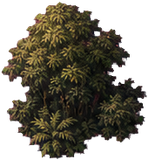
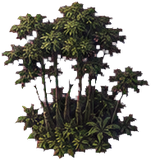
Painted 4x sprite set: units, cities and resources to match the painted map
Generates painted units, special resources, town, walls, fortress and
huts in the concept's style, cuts them out (painted_assets.py) and builds
a complete 4x sprite set from them (painted_set.py, assets/hd4): units
get a small flag in their player's colors, the city a badge. On the
painted map the town stands on the painted ground and its size is
written in the top left corner so the town shows.

Also: greener jungle trees, softer surf, and HD_SET=hd4 for the
stand-in installer.

Claude-Session: https://claude.ai/code/session_01VGBb6mKQ3kspS5r6m29MiP

diff --git a/tools/hdart/painted_set.py b/tools/hdart/painted_set.py
@@ -1,0 +1,132 @@
+"""Writes the 4x sprite set that goes with the painted map: units, resources, cities, walls, fortress and huts from the
+painted objects (assets/painted/objects, see painted_assets.py), and the remaining map sprites (roads, railroads,
+irrigation, mines, pollution, fog, explosions, shield bonus) from the drawn 2x set at twice the size.
+
+Terrain tiles are left out: the painted map replaces them. The output has scale.txt with 4.
+
+Usage: python3 painted_set.py [OUTPUT_DIR] [OBJECTS_DIR]     (defaults: assets/hd4 and assets/painted/objects)
+"""
+
+import os
+import sys
+import numpy as np
+from PIL import Image
+
+import common as c
+import overlays as o
+import style
+import units as u
+
+HERE = os.path.dirname(os.path.abspath(__file__))
+S = 4                       # HD pixels per original pixel
+UNIT = 15 * S               # units, resources and the city are 15x15 original pixels
+CITY_UP = 16                # HD rows of the town that rise into the cell above (a multiple of S)
+RESOURCES = ['oasis', 'horses', 'wheat', 'pheasant', 'coal', 'gold', 'caribou', 'seal', 'peat', 'gems', 'fish', 'fish']
+SHIPS = range(16, 25)
+AIRCRAFT = (14, 15, 25)
+
+OBJECTS = os.path.join(HERE, '..', '..', 'assets', 'painted', 'objects')
+
+
+def obj(name):
+    return np.asarray(Image.open(os.path.join(OBJECTS, name + '.png')).convert('RGBA'))
+
+
+def up2(img):
+    """Drawn 2x art at 4x."""
+    h, w = img.shape[:2]
+    return np.asarray(Image.fromarray(img).resize((w * 2, h * 2), Image.LANCZOS))
+
+
+def icon(name, size, bottom=None, shadow=True):
+    """A painted object fitted into a size x size sprite, standing on its bottom edge, with a soft shadow."""
+    img = np.zeros((UNIT, UNIT, 4), dtype=np.uint8)
+    fitted = style.fit(obj(name), width=size, height=size)
+    bottom = UNIT - 2 if bottom is None else bottom
+    if shadow:
+        style.shadow(img, UNIT / 2, bottom - 1, fitted.shape[1] * 0.42, alpha=90)
+    style.paste(img, fitted, UNIT / 2, bottom)
+    return img
+
+
+def unit(j):
+    """Unit j in UnitTypeEnum order, with a small flag in the player's colors (key colors) at the top left."""
+    img = np.zeros((UNIT, UNIT, 4), dtype=np.uint8)
+    fitted = style.fit(obj('unit_' + u.UNIT_NAMES[j]), width=UNIT - 4, height=UNIT - 6)
+    if j in AIRCRAFT:
+        # flying: the shadow falls on the ground further away
+        style.shadow(img, UNIT / 2 + 6, UNIT - 3, fitted.shape[1] * 0.3, alpha=70)
+        style.paste(img, fitted, UNIT / 2, UNIT - 8)
+    else:
+        if j not in SHIPS:
+            style.shadow(img, UNIT / 2, UNIT - 3, fitted.shape[1] * 0.42, alpha=90)
+        style.paste(img, fitted, UNIT / 2, UNIT - 2)
+    flag = c.Sprite(UNIT, UNIT, u.M)
+    flag.line(4.5, 1, 4.5, 21, 2, 'wood', 0)
+    flag.rect(6, 1, 18, 9, 'P', 0.3)
+    flag.rect(6, 9, 18, 12, 'S', 0)
+    f = flag.render()
+    shown = f[..., 3] > 0
+    img[shown] = f[shown]
+    return img
+
+
+def city():
+    """The town, rising CITY_UP rows into the cell above, with a badge in the player's colors behind the size number."""
+    h = UNIT + CITY_UP
+    img = np.zeros((h, UNIT, 4), dtype=np.uint8)
+    fitted = style.fit(obj('town'), width=UNIT, height=h - 2)
+    style.shadow(img, UNIT / 2, h - 3, UNIT * 0.45, alpha=90)
+    style.paste(img, fitted, UNIT / 2, h - 1)
+    # with the painted map the game writes the size at original pixels (2..9, 1..6) of this sprite, in its top left corner
+    badge = c.Sprite(UNIT, h, {'P': 'P', 'S': 'S'})
+    badge.rect(6, CITY_UP + 1, 39, CITY_UP + 29, 'S', 0)
+    badge.rect(8, CITY_UP + 3, 37, CITY_UP + 27, 'P', 0.5)
+    b = badge.render(outline=(20, 16, 12, 255))
+    shown = b[..., 3] > 0
+    img[shown] = b[shown]
+    return img
+
+
+def sprites():
+    """Yields (sheet, x, y, suffix, image) for every sprite of the set."""
+    for i in range(8):
+        yield 'SP257', i * 16, 48, '', up2(o.road(i + 1))
+        yield 'SP257', 128 + i * 16, 96, '', up2(o.railroad(i + 1))
+    yield 'SP257', 64, 32, '', up2(o.irrigation())
+    yield 'SP257', 80, 32, '', up2(o.mine())
+    yield 'SP257', 96, 32, '', up2(o.pollution())
+    for i, name in enumerate(RESOURCES):
+        yield 'SP257', i * 16 + 1, 113, '', icon('res_' + name, 34, UNIT - 10)
+    yield 'SP257', 12 * 16 + 1, 113, f'_t{CITY_UP // S}_k0-5', city()
+    yield 'SP257', 13 * 16 + 1, 113, '', icon('walls', UNIT, UNIT - 1, shadow=False)
+    yield 'SP257', 14 * 16 + 1, 113, '', icon('fortress', UNIT - 6)
+    yield 'SP257', 15 * 16 + 1, 113, '', icon('hut', 44)
+    yield 'SP257', 153, 41, '', up2(o.shield_bonus())
+    for i, direction in enumerate((1, 3, 5, 7)):
+        yield 'SP257', 80 + i * 16, 128, '', up2(o.fog(direction))
+    for i in range(8):
+        yield 'SP257', i * 16 + 1, 97, '', up2(o.explosion(i))
+    for j in range(len(u.UNIT_NAMES)):
+        yield 'SP257', (j % 20) * 16 + 1, (j // 20) * 16 + 161, '', unit(j)
+
+
+def main(out):
+    count = 0
+    for sheet, x, y, suffix, img in sprites():
+        folder = os.path.join(out, sheet)
+        os.makedirs(folder, exist_ok=True)
+        if not (y >= 160 or suffix):
+            # only units and the city are meant to carry key colors
+            img = c.avoid_keys(img.copy())
+        c.save(img, os.path.join(folder, f'{x}_{y}{suffix}.png'))
+        count += 1
+    with open(os.path.join(out, 'scale.txt'), 'w') as f:
+        f.write('4\n')
+    print(f'{count} sprites written to {out}')
+
+
+if __name__ == '__main__':
+    if len(sys.argv) > 2:
+        OBJECTS = sys.argv[2]
+    main(sys.argv[1] if len(sys.argv) > 1 else os.path.join(HERE, '..', '..', 'assets', 'hd4'))

diff --git a/tools/hdart/generate_painted.py b/tools/hdart/generate_painted.py
@@ -21,6 +21,59 @@ TEXTURE = (STYLE + ' A seamless tileable ground texture seen straight from above
 SHEET = ('Every object is isolated on a perfectly flat, uniform pure magenta (#FF00FF) background, with clear empty '
          'magenta space between objects so each can be cut out. No ground under them, no cast shadows, no text, no frame.')
 
+OBJECT = ('{}, seen from a high three-quarter top-down angle, centred and filling most of the image, with a bold, '
+          'readable silhouette that stays clear when shrunk to a small game icon. It is isolated on a perfectly flat, '
+          'uniform pure magenta (#FF00FF) background. No ground under it, no cast shadow, no text, no frame.')
+
+UNITS = {
+    'settlers': 'a pioneer settler pushing a laden handcart, a shovel over the shoulder',
+    'militia': 'a peasant militiaman with a spear and a leather jerkin',
+    'phalanx': 'a Greek hoplite with a large round bronze shield and a long spear',
+    'legion': 'a Roman legionary with a large rectangular red shield and a short sword',
+    'musketeers': 'a 17th-century musketeer with a musket and a broad-brimmed hat',
+    'riflemen': 'a 19th-century rifleman in a greatcoat with a bayonet rifle',
+    'cavalry': 'a 19th-century cavalryman on a galloping horse, sabre raised',
+    'knights': 'an armoured medieval knight on a barded warhorse with a lance',
+    'catapult': 'a wooden siege catapult',
+    'cannon': 'a bronze field cannon on a wooden carriage with spoked wheels',
+    'chariot': 'a two-horse ancient war chariot with a driver',
+    'armor': 'a World War Two battle tank',
+    'mech_infantry': 'a modern armoured infantry fighting vehicle',
+    'artillery': 'a modern towed howitzer artillery gun',
+    'fighter': 'a jet fighter aircraft in flight',
+    'bomber': 'a large four-engine propeller bomber aircraft in flight',
+    'trireme': 'an ancient trireme galley with oars and a square sail',
+    'sail': 'a medieval sailing caravel',
+    'frigate': 'an 18th-century three-masted frigate under sail',
+    'ironclad': 'a 19th-century ironclad steam warship with a funnel',
+    'cruiser': 'a modern steel cruiser warship',
+    'battleship': 'a large battleship with big gun turrets',
+    'submarine': 'a surfaced submarine',
+    'carrier': 'an aircraft carrier with a flat deck',
+    'transport': 'a large cargo transport ship',
+    'nuclear': 'a nuclear missile',
+    'diplomat': 'a diplomat in a long dark coat holding a sealed scroll',
+    'caravan': 'a merchant caravan: a camel loaded with bundles of goods led by a trader',
+}
+
+ICONS = {
+    'res_oasis': 'a small desert oasis: a pool of water with two palm trees',
+    'res_horses': 'a pair of wild horses',
+    'res_wheat': 'a few golden sheaves of wheat',
+    'res_pheasant': 'a pheasant bird',
+    'res_coal': 'a heap of black coal lumps',
+    'res_gold': 'a small pile of gold nuggets',
+    'res_caribou': 'a caribou deer with antlers',
+    'res_seal': 'a grey seal lying on ice',
+    'res_peat': 'a stack of cut brown peat bricks',
+    'res_gems': 'a cluster of glittering coloured gemstones',
+    'res_fish': 'a small shoal of three silver fish',
+    'hut': 'a small tribal village of three thatched huts',
+    'fortress': 'a small square earthwork fort with a wooden palisade',
+    'town': 'a small medieval town of stone houses with red-brown roofs and a church tower, without any town walls',
+    'walls': 'a square ring of grey stone city walls with round towers at the four corners and a gatehouse, completely empty inside',
+}
+
 PROMPTS = {
     'tex_grass': TEXTURE + 'wild meadow grass in olive green with soft patches of ochre and darker green, fine painterly brush strokes, like the open grassland in the reference.',
     'tex_plains': TEXTURE + 'dry golden-ochre prairie grass with a few darker tufts, like the yellow grass areas in the reference.',
@@ -35,7 +88,10 @@ PROMPTS = {
     'mountains': STYLE + ' A sprite sheet of 6 separate jagged rocky mountain peaks with snow on their tops, seen from a high three-quarter top-down angle exactly like the mountains in the reference, lit from the left with deep shade on the right, varied shapes, some single peaks and some small clusters of two or three peaks. ' + SHEET,
     'hills': STYLE + ' A sprite sheet of 9 separate low grassy hills and knolls with some exposed earth and rock, seen from a high three-quarter top-down angle exactly like the hills in the reference, lit from the left. Varied sizes. ' + SHEET,
     'jungle': STYLE + ' A sprite sheet of 16 separate dark, lush tropical broadleaf jungle trees and palm clusters seen from a high three-quarter top-down angle, in the same muted colours as the reference. Varied sizes in a loose grid. ' + SHEET,
+    'jungle_green': STYLE + ' A sprite sheet of 16 separate lush tropical jungle trees and palm clusters seen from a high three-quarter top-down angle, with rich deep green leaves (green, not brown), varied sizes in a loose grid. ' + SHEET,
 }
+PROMPTS.update({f'unit_{k}': STYLE + ' ' + OBJECT.format(v[0].upper() + v[1:]) for k, v in UNITS.items()})
+PROMPTS.update({k: STYLE + ' ' + OBJECT.format(v[0].upper() + v[1:]) for k, v in ICONS.items()})
 
 
 def generate(key, concept, out, name):

diff --git a/tools/hdart/painted_assets.py b/tools/hdart/painted_assets.py
@@ -2,11 +2,14 @@
 
 Input folder (as written by generate_painted.py):
   tex_NAME.png    ground textures: grass, plains, desert, tundra, snow, ocean, shallow, swamp, floor
-  SET.png         sprite sheets on flat magenta: trees, jungle, hills, mountains
+  SET.png         sprite sheets on flat magenta: trees, jungle (jungle_green.png wins), hills, mountains
+  unit_*.png, res_*.png, hut.png, fortress.png, town.png, walls.png
+                  single objects on flat magenta, for the 4x sprite set (painted_set.py)
 
 Output folder (copy it to the game's hd/painted):
   ground/NAME.png   textures made to repeat without seams, 512x512
   SET/N.png         each sprite cut from its sheet, with the magenta keyed out
+  objects/NAME.png  each single object, keyed out and trimmed
 
 Usage: python3 painted_assets.py INPUT_DIR OUTPUT_DIR
 """
@@ -24,9 +27,9 @@ SETS = ['trees', 'jungle', 'hills', 'mountains']
 TEXTURE_SIZE = 512
 
 
-def cut_sprites(sheet, min_area=400):
-    """Sprites from a sheet on flat magenta: alpha from the colour key, magenta spill removed, one per blob."""
-    a = np.asarray(sheet.convert('RGB'), dtype=np.float64)
+def key_out(image):
+    """RGBA float array: alpha from the magenta colour key, magenta spill removed."""
+    a = np.asarray(image.convert('RGB'), dtype=np.float64)
     r, g, b = a[..., 0], a[..., 1], a[..., 2]
     key = np.minimum(r, b) - g                       # about 255 on the background, low on the art
     alpha = ndimage.grey_erosion(np.clip((150 - key) / 110, 0, 1), size=(3, 3))
@@ -35,7 +38,13 @@ def cut_sprites(sheet, min_area=400):
     a = a.copy()
     a[..., 0] -= spill
     a[..., 2] -= spill
-    rgba = np.concatenate([np.clip(a, 0, 255), alpha[..., None] * 255], -1)
+    return np.concatenate([np.clip(a, 0, 255), alpha[..., None] * 255], -1)
+
+
+def cut_sprites(sheet, min_area=400):
+    """Sprites from a sheet on flat magenta, one per blob."""
+    rgba = key_out(sheet)
+    alpha = rgba[..., 3] / 255
     labels, _ = ndimage.label(ndimage.binary_dilation(alpha > 0.5, iterations=2))
     out = []
     for i, sl in enumerate(ndimage.find_objects(labels), 1):
@@ -45,6 +54,24 @@ def cut_sprites(sheet, min_area=400):
         spr[..., 3] *= labels[sl] == i
         out.append(Image.fromarray(np.rint(spr).astype(np.uint8), 'RGBA'))
     return out
+
+
+def cut_object(image, size=256):
+    """A single object on flat magenta: its parts (blobs at least 2% of the largest), trimmed, at most `size` pixels."""
+    rgba = key_out(image)
+    labels, n = ndimage.label(rgba[..., 3] > 128)
+    if n == 0:
+        return None
+    areas = ndimage.sum(np.ones(labels.shape), labels, range(1, n + 1))
+    keep = np.isin(labels, [i + 1 for i, area in enumerate(areas) if area >= areas.max() * 0.02])
+    keep = ndimage.binary_dilation(keep, iterations=3)
+    rgba[..., 3] *= keep
+    ys, xs = np.nonzero(rgba[..., 3] > 8)
+    img = Image.fromarray(np.rint(rgba[ys.min():ys.max() + 1, xs.min():xs.max() + 1]).astype(np.uint8), 'RGBA')
+    k = size / max(img.size)
+    if k < 1:
+        img = img.resize((max(1, round(img.width * k)), max(1, round(img.height * k))), Image.LANCZOS)
+    return img
 
 
 def main(src, out):
@@ -57,6 +84,8 @@ def main(src, out):
             Image.fromarray(tile).convert('RGB').resize((TEXTURE_SIZE, TEXTURE_SIZE), Image.LANCZOS).save(os.path.join(out, 'ground', f'{name}.png'))
     for name in SETS:
         path = os.path.join(src, f'{name}.png')
+        if name == 'jungle' and os.path.exists(os.path.join(src, 'jungle_green.png')):
+            path = os.path.join(src, 'jungle_green.png')
         if os.path.exists(path):
             folder = os.path.join(out, name)
             os.makedirs(folder, exist_ok=True)
@@ -69,6 +98,15 @@ def main(src, out):
                     spr = spr.resize((max(1, spr.width * 160 // spr.height), 160), Image.LANCZOS)
                 spr.save(os.path.join(folder, f'{i}.png'))
             print(name, len(sprites), 'sprites')
+    objects = sorted(f[:-4] for f in os.listdir(src)
+                     if f.endswith('.png') and (f.startswith(('unit_', 'res_')) or f[:-4] in ('hut', 'fortress', 'town', 'walls')))
+    if objects:
+        os.makedirs(os.path.join(out, 'objects'), exist_ok=True)
+        for name in objects:
+            img = cut_object(Image.open(os.path.join(src, name + '.png')))
+            if img is not None:
+                img.save(os.path.join(out, 'objects', name + '.png'))
+        print(len(objects), 'objects')
 
 
 if __name__ == '__main__':

diff --git a/src/Game/CodeObjects/MapManagement.cs b/src/Game/CodeObjects/MapManagement.cs
@@ -661,6 +661,12 @@ namespace OpenCivOne
 							this.parent.DrawTools.FillRectangle(this.parent.Var_aa_Screen0_Rectangle, scrX + 2, scrY + 2, 12, 12,
 								this.parent.Array_1946_PlayerColours[city.PlayerID]);
 
+							if (paintedMap != null)
+							{
+								// On the painted map the town stands on the painted ground, the square keeps the indexed player colors
+								this.parent.Graphics.DrawPaintedCell(this.parent.Var_aa_Screen0_Rectangle, scrX, scrY, paintedMap, this.AdjustXPosition(x), y);
+							}
+
 							// Draw city 'streets'
 
 							// Instruction address 0x2aea:0x0cba, size: 5
@@ -687,7 +693,15 @@ namespace OpenCivOne
 								// Draw city size
 
 								// Instruction address 0x2aea:0x0d8d, size: 5
-								this.parent.DrawTools.DrawStringToScreen0($"{citySize}", ((citySize < 10) ? 6 : 3) + scrX, scrY + 5, 0);
+								if (paintedMap != null)
+								{
+									// on the painted map the size stands in the top left corner, so the town shows
+									this.parent.DrawTools.DrawStringToScreen0($"{citySize}", ((citySize < 10) ? 5 : 3) + scrX, scrY + 2, 0);
+								}
+								else
+								{
+									this.parent.DrawTools.DrawStringToScreen0($"{citySize}", ((citySize < 10) ? 6 : 3) + scrX, scrY + 5, 0);
+								}
 							}
 
 							// Instruction address 0x2aea:0x0d9c, size: 3

diff --git a/src/Graphics/PaintedMap.cs b/src/Graphics/PaintedMap.cs
@@ -436,10 +436,10 @@ namespace OpenCivOne.Graphics
 						float wb = ocean.B[oi] + ((shallow.B[si] - ocean.B[oi]) * shallowness);
 
 						// surf: a broken white line just off the coast, and fainter foam further out
-						float foamNoise = (this.Noise(wx, wy, 6 * k, 5) * 0.6f) + (this.Noise(wx, wy, 2 * k, 6) * 0.4f);
-						float surf = Smooth(0.18f, 0.32f, surfLand) * Smooth(0.5f, 0.38f, land) * Smooth(0.35f, 0.65f, foamNoise);
-						surf += Smooth(0.08f, 0.14f, surfLand) * Smooth(0.2f, 0.14f, surfLand) * Smooth(0.6f, 0.85f, foamNoise) * 0.5f;
-						surf = Math.Min(surf, 1) * 0.8f;
+						float foamNoise = (this.Noise(wx, wy, 12 * k, 5) * 0.7f) + (this.Noise(wx, wy, 4 * k, 6) * 0.3f);
+						float surf = Smooth(0.2f, 0.34f, surfLand) * Smooth(0.5f, 0.4f, land) * Smooth(0.4f, 0.7f, foamNoise);
+						surf += Smooth(0.08f, 0.14f, surfLand) * Smooth(0.2f, 0.14f, surfLand) * Smooth(0.6f, 0.8f, foamNoise) * 0.35f;
+						surf = Math.Min(surf, 1) * 0.7f;
 						r[i] = (wr * (1 - surf)) + (210 * surf);
 						g[i] = (wg * (1 - surf)) + (216 * surf);
 						b[i] = (wb * (1 - surf)) + (205 * surf);

diff --git a/docs/hd-art.md b/docs/hd-art.md
@@ -40,12 +40,25 @@ Each map cell shows its square of that painting. Irrigation, roads, mines, resou
 
 The painting works at either HD scale; at 4x (`scale.txt` with `4`) it is 64 pixels per cell.
 
+### The 4x set
+
+`assets/hd4` is the sprite set that goes with the painted map at 4x: all 28 units, the special resources, the city, city walls, fortress and huts are painted in the same style, and the rest (roads, railroads, irrigation, mines, pollution, fog borders, explosions) are the drawn 2x sprites at twice the size. Units carry a small flag in their player's colors, and the city a badge in its player's colors. It has no terrain tiles, since the painting replaces them, and it holds `scale.txt` with `4`.
+
+To play with it, copy `assets/hd4` to `Civ1/hd` and `assets/painted` to `Civ1/hd/painted` (`HD_SET=hd4 tools/standin/build.sh` does this for the stand-in set). With the 2x set in `assets/hd` instead, the map is painted at 32 pixels per cell and the other sprites are the drawn 2x ones.
+
+On the painted map the city size is written in the top left corner of the city, on the badge, so that the town shows.
+
+`tools/hdart/painted_set.py` builds the set from the painted objects in `assets/painted/objects`.
+
+### Art
+
 The repository includes the art in `assets/painted`; copy it to `Civ1/hd/painted` (the stand-in build does this). The folder holds:
 
 - `ground/NAME.png`: textures that repeat without seams, one for each of `grass`, `plains`, `desert`, `tundra`, `snow`, `ocean`, `shallow`, `swamp` and `floor` (under trees). A texture spans 8 cells. Each terrain uses one or two of them; a missing one shows as flat grey-green.
 - `trees/`, `jungle/`, `hills/`, `mountains/`: sprites with transparent backgrounds, any size; the game scales them. Forest cells get about 26 trees, jungle 12 crowns, hills 2 hills, mountains one peak about 1.4 cells tall, and some grassland a lone tree.
+- `objects/`: single painted objects (units, resources, town, walls, fortress, hut) that `painted_set.py` uses; the game does not read them.
 
-The included art was generated from a concept image with `tools/hdart/generate_painted.py` (OpenAI Images API, the concept as a style reference; set `OPENAI_API_KEY`). Sprite sheets come back on flat magenta, and `tools/hdart/painted_assets.py` makes the textures seamless and cuts the sprites out. To see the painting without the game, run the HD layer tests with `PAINTED_PREVIEW=out.png`: they paint a sample map with the art in `assets/painted`.
+The included art was generated from a concept image with `tools/hdart/generate_painted.py` (OpenAI Images API, the concept as a style reference; set `OPENAI_API_KEY`). Sprites and objects come back on flat magenta, and `tools/hdart/painted_assets.py` makes the textures seamless and cuts the sprites and objects out. To see the painting without the game, run the HD layer tests with `PAINTED_PREVIEW=out.png`: they paint a sample map with the art in `assets/painted`.
 
 ## How it works
 
